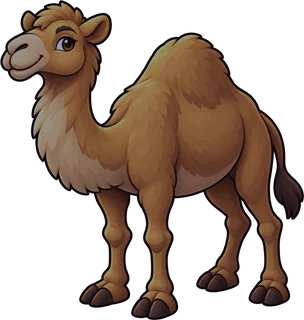
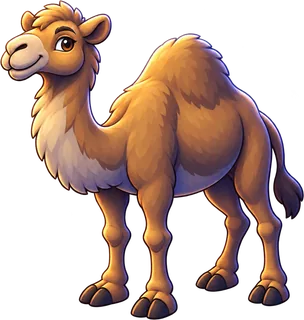
Карта A1: справжні вечірні спрайти природи Близького Сходу (верблюд, дюна, опунція, пісковик, кипарис, олива) замість автозатемнених
Claude-Session: https://claude.ai/code/session_01XfhK1phibuu6el71j1qe9o

diff --git a/public/game-map/v2/styles/README.md b/public/game-map/v2/styles/README.md
@@ -32,4 +32,4 @@ Claude обріже фон, стисне у webp, розкладе по папц
 ## Азія, Океанія, Близький Схід (03.10.2026)
 
 Додано `asia/`, `oceania/`, `mideast/` (по 8 будинків, природа, `flags.json`, `manifest.json`) і підкладки `geo-asia.json`, `geo-oceania.json`, `geo-mideast.json` (суша, річки, озера, дерева й тварини за біомами, піски пустель у `sand`; дані Natural Earth). Компанії регіону беруться за країною (`load-companies.ts`: ASIA / OCEANIA / MIDEAST).
-Вечірніх спрайтів природи Близького Сходу поки немає для: camel, desert-dune, prickly-pear, sandstone-rock, tree-cypress, tree-olive -- замість них темні версії, зроблені з денних автоматично; коли з'являться справжні, покласти у `mideast/dark/nature/<назва>.webp`.
+Вечірні спрайти природи Близького Сходу (camel, desert-dune, prickly-pear, sandstone-rock, tree-cypress, tree-olive) -- справжні, намальовані (03.10.2026), у `mideast/dark/nature/<назва>.webp`; розміри збігаються з денними (manifest.json).
